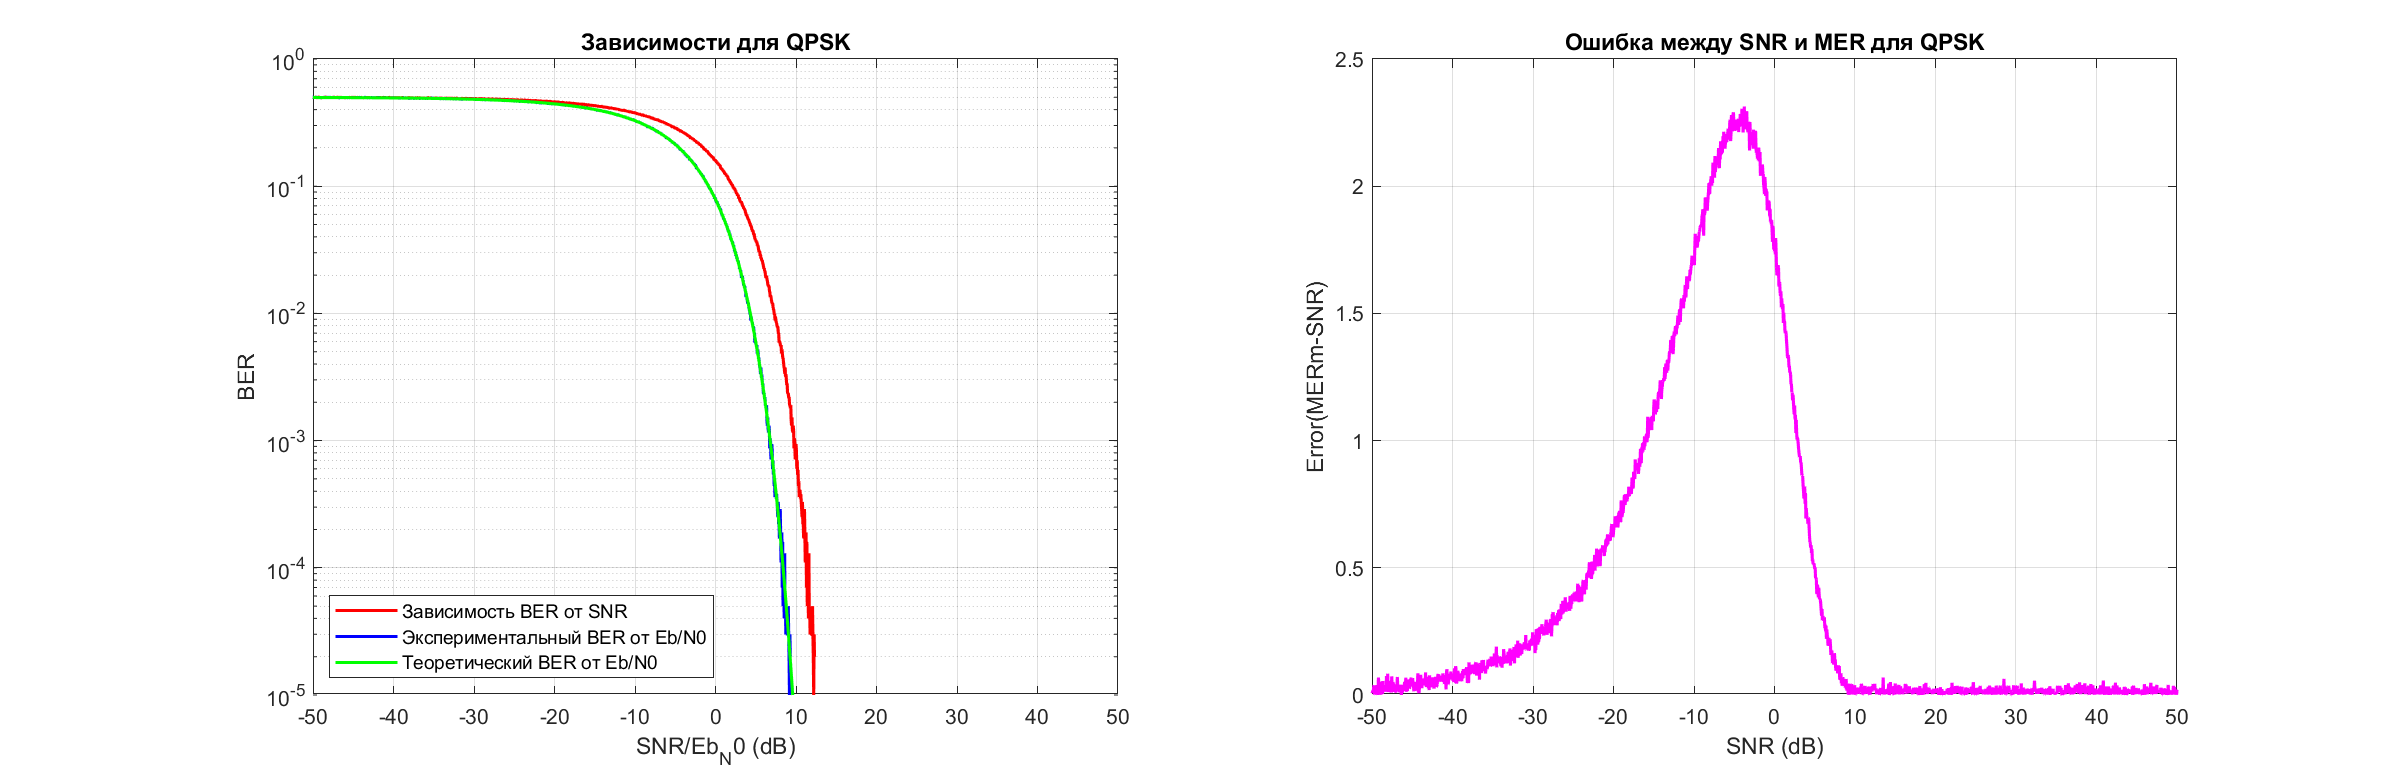
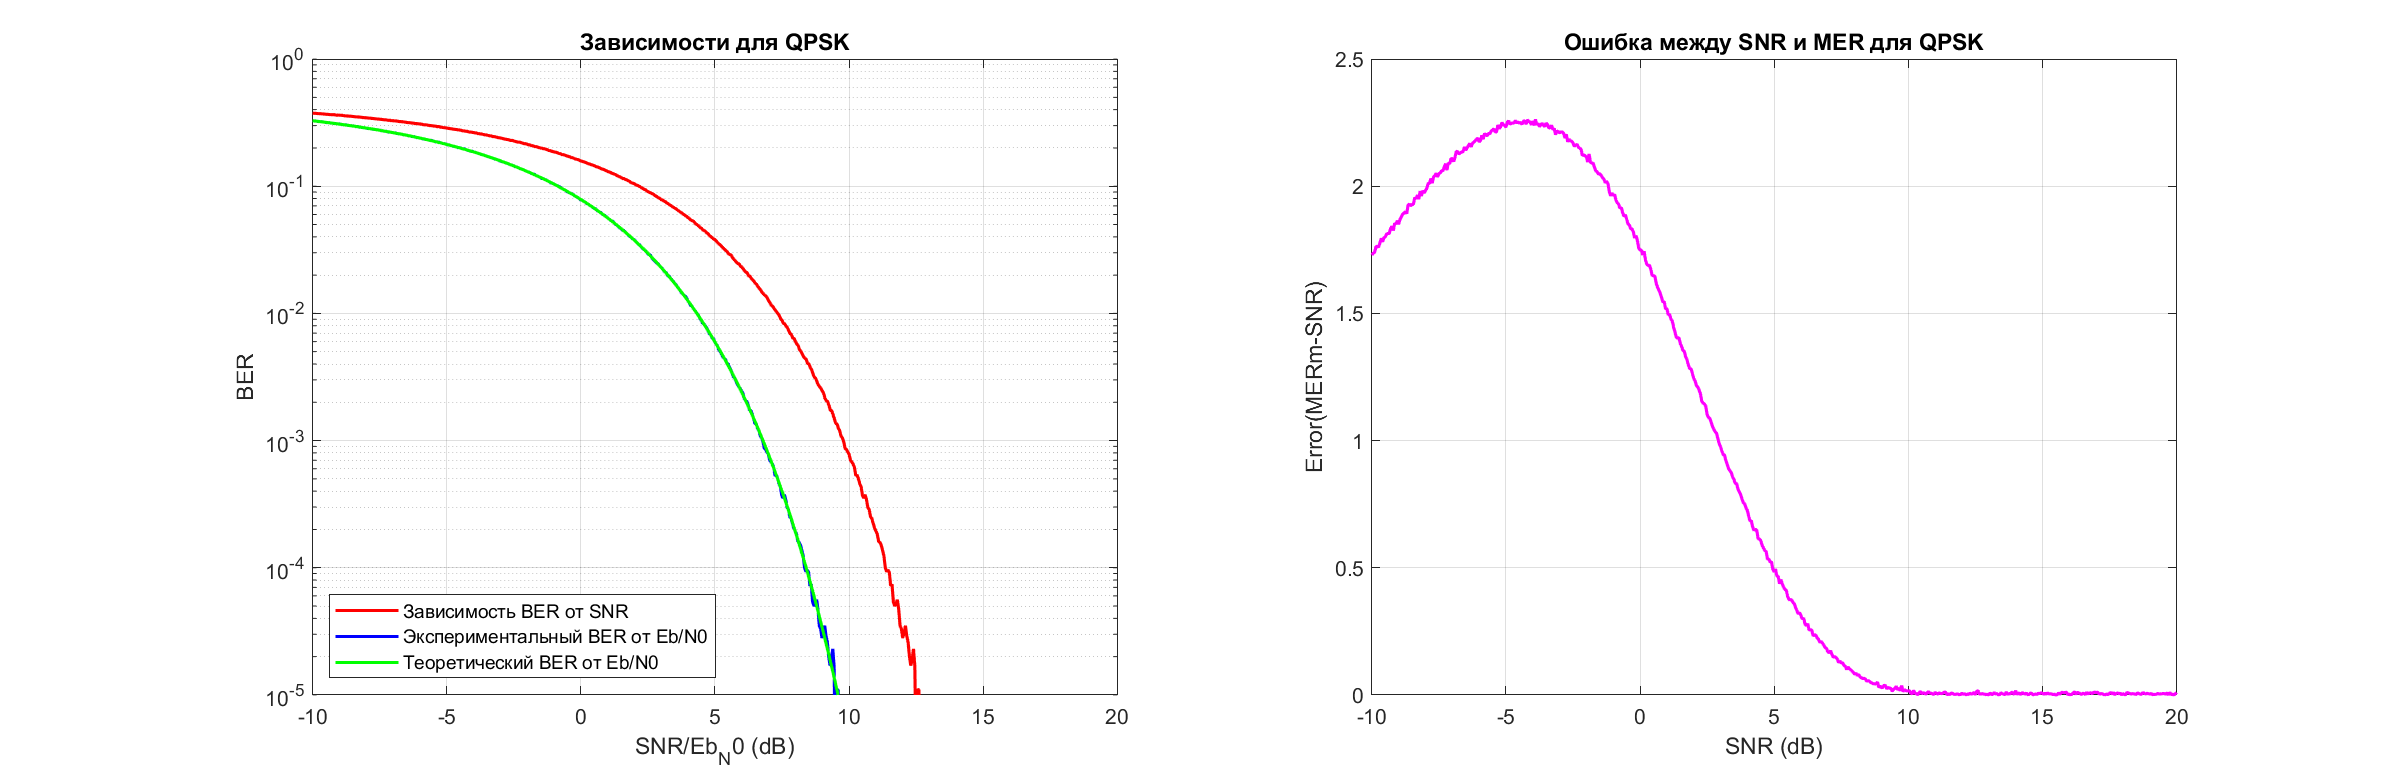
changed teretical lines of BER for 8PSK and 16-QAM

diff --git a/task5/Main_BER_SNR.m b/task5/Main_BER_SNR.m
@@ -1,6 +1,6 @@
 close all; clear; clc;
 %% Init parametrs of model
-Length_Bit_vector = 1e5;
+Length_Bit_vector = 1e6;
 rng(321); % Fix the seed of the random number generator
 
 Constellation = "16QAM"; % BPSK, QPSK, 8PSK, 16QAM
@@ -38,8 +38,10 @@ BER = Error_check(Bit_Tx, Bit_Rx);
 
 constellations = ["BPSK", "QPSK", "8PSK", "16QAM"];
 
-SNR = -50:0.05:50;
+SNR = -10:0.05:20;
+BERt_all=zeros(size(SNR,2),size(constellations,2));
 BERm_all=zeros(size(SNR,2),size(constellations,2));
+
 EbN0_all=zeros(size(SNR,2),size(constellations,2));
 
 
@@ -73,9 +75,25 @@ for p = 1:length(constellations)
     hold on;
     plot(EbN0, BERm,'b','LineWidth',1.5);
     hold on;
-    EbN0_c = 10.^(EbN0/10);
-    BERt = 1/2.*erfc(sqrt(EbN0_c));
     
+    switch Constellation
+    case "BPSK"
+        EbN0_c = 10.^(EbN0/10);
+        BERt = 1/2.*erfc(sqrt(EbN0_c));
+    case "QPSK"
+        EbN0_c = 10.^(EbN0/10);
+        BERt = 1/2.*erfc(sqrt(EbN0_c));
+    case "8PSK"
+        EbN0_c = 10.^(EbN0/10);
+        BERt = 1/3.*erfc(sqrt(3.*EbN0_c)*sin(pi/8));
+    case  "16QAM"
+        EbN0_c = 10.^(EbN0/10);
+        BERt = 1/4.*3/2.*erfc(sqrt(4.*EbN0_c./10));
+    otherwise
+        disp('incorrect const')
+    end
+    
+    BERt_all(:,p)=BERt;
     %lastNonZero = find(BERt ~= 0, 1, 'last');  
     %BERt(lastNonZero:end) = 4.000000000000000e-323;
     plot(EbN0, BERt,'g','LineWidth',1.5);
@@ -88,7 +106,7 @@ for p = 1:length(constellations)
     xlabel('SNR/Eb_N0 (dB)');
     ylabel('BER');
     ylim([10^(-5) 10^(0)]);
-    xlim([-50 50]);
+    xlim([-10 20]);
 
 %% Additional task. Modulation error ration
 %%%%%%%%%%%%%%%%%%%%%%%%%%%%%%%%%%%%%5MER_estimation = MER_my_func(IQ_RX, Constellation);
@@ -109,7 +127,6 @@ for p = 1:length(constellations)
     name=Constellation+"_BER от SNR и от Eb_N0 и MER.png";
     saveas(gcf,name);
 end
-
 %% All in one
 figure();
 plot(EbN0_all(:,1), BERm_all(:,1),'r','LineWidth',2);
@@ -127,6 +144,7 @@ title('Зависимость BER от Eb/N0 для ' + strjoin(constellations,'
 grid on;
 hold on;
 name="All in One.png";
+xlim([-10 15]);
 saveas(gcf,name);
 %% Functions
 

diff --git a/task5/Eb_N0_convert.m b/task5/Eb_N0_convert.m
@@ -1,6 +1,5 @@
 function [Eb_N0] = Eb_N0_convert(SNR, Constellation)
     [~, bit_depth] = constellation_func(Constellation);
     Eb_N0 = SNR-10*log10(bit_depth);
-
 end
 
